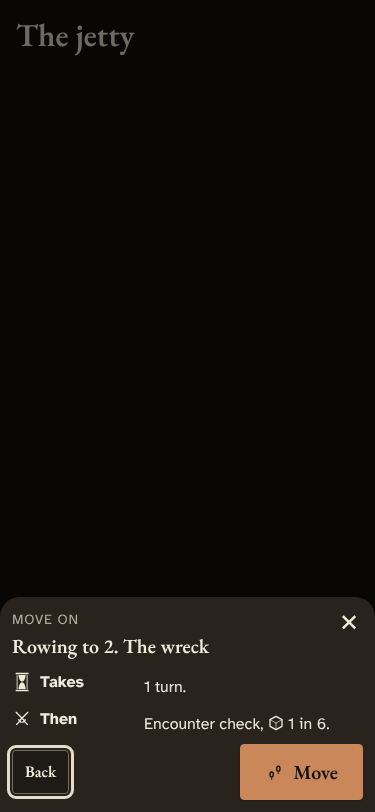
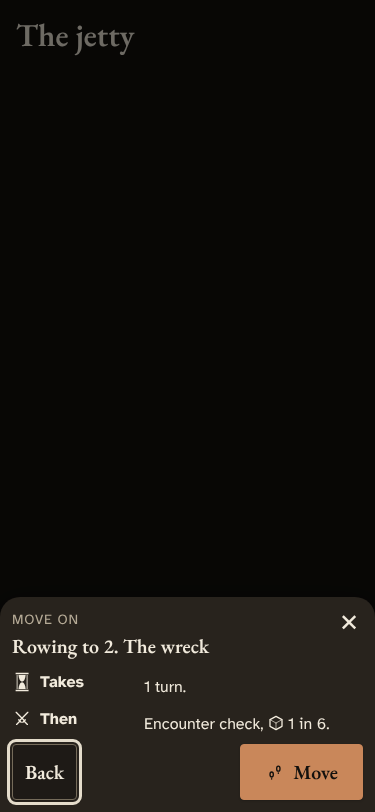
sf-9 + sf-15 review fixes: the Area heading's spacing token, Back as tall as Move, no heading for an unnamed parent, a failed players' read said in a toast, sf-9's built pictures (#122)
Claude-Session: https://claude.ai/code/session_01378fdp6saX76RR3GrkmdJT

Changed region(s): [[0.0, 0.8929, 0.2347, 1.0]]

diff --git a/src/modules/expedition/moveOnWays.test.ts b/src/modules/expedition/moveOnWays.test.ts
@@ -1,7 +1,7 @@
 // Move on's wiring, its data and rules (piece 5b-0; dec-4 pieces b and d; pt-f2, pt-f3): the ways from here, what
 // players know of each far end, each way's time in turns, the split party's refusal, and the GM's read through the
 // stand-in database. Invented places, links and people only.
-import { describe, expect, it } from 'vitest';
+import { describe, expect, it, vi } from 'vitest';
 import type { Db } from '../../core/supabase.ts';
 import { createFakeDb } from '../../testing/fakeDb.ts';
 import type { Barrier, Route } from '../library/routes.ts';
@@ -333,12 +333,35 @@ describe('the GM’s read', () => {
     expect(PLAYERS_READ_WORDS.eye).toBe('Not shown yet. Players read:');
   });
 
+  // Purpose (review nit 4): a far end whose parent the pack doesn't have gets no Area heading, never the parent's raw id.
+  it('gives no heading for a parent the pack does not have', async () => {
+    const t = await mere();
+    const cave = t.world.tables.library_entries.find((x) => x.kind === 'location' && x.pack_entry_id === 'cave')!;
+    cave.data = { ...(cave.data as Record<string, unknown>), parentId: 'gone-area' };
+    const rows = destinationsOf((await loadMoveOn(t.world.db as unknown as Db, t.campaign, t.expedition)) as MoveOnRead);
+    expect(rows.find((r) => r.name === 'The Sea Cave')?.area).toBeNull();
+    expect(JSON.stringify(rows)).not.toContain('gone-area');
+  });
+
+  // Purpose (cs-22): when the players' own read fails, the GM's read still comes back, says that read failed, and its
+  // lines go by the far end's number.
+  it('says when the players’ read failed, and goes by the number', async () => {
+    const t = await mere();
+    const db = t.world.db as unknown as Db;
+    const real = db.rpc.bind(db);
+    vi.spyOn(db, 'rpc').mockImplementation(((name: string, args: never) => (name === 'campaign_ways_on' ? Promise.resolve({ data: null, error: { message: 'offline' } }) : real(name as never, args))) as never);
+    const read = (await loadMoveOn(db, t.campaign, t.expedition)) as MoveOnRead;
+    expect(read.playersUnread).toBe(true);
+    expect(destinationsOf(read).map((r) => r.players)).toEqual([null, '3. Unexplored', null]);
+  });
+
   // Purpose: while the players have no ways (nothing of here shown yet), the GM's line says the far end by its number,
   // as they will read it in a known Area, and never fails the read.
   it('says a far end by its number while the players have no ways yet', async () => {
     const t = await mere({ jettyShown: false });
-    const rows = destinationsOf((await loadMoveOn(t.world.db as unknown as Db, t.campaign, t.expedition)) as MoveOnRead);
-    expect(rows.map((r) => r.players)).toEqual(['2. Unexplored', '3. Unexplored', null]);
+    const read = (await loadMoveOn(t.world.db as unknown as Db, t.campaign, t.expedition)) as MoveOnRead;
+    expect(read.playersUnread).toBe(false);
+    expect(destinationsOf(read).map((r) => r.players)).toEqual(['2. Unexplored', '3. Unexplored', null]);
   });
 
   // Purpose: a player's device gets no ways from this read: routes are the GM's (pt-f3), so the far ends and the

diff --git a/src/modules/expedition/moveOnWays.ts b/src/modules/expedition/moveOnWays.ts
@@ -151,6 +151,8 @@ export interface MoveOnRead {
    * number alone (`playersLineOf`).
    */
   players: Map<string, PlayersRead>;
+  /** The players' own read failed (cs-22): their lines fall back to the far end's number, and Move on says so. */
+  playersUnread: boolean;
 }
 
 const text = (value: unknown) => (typeof value === 'string' ? value.trim() : '');
@@ -229,6 +231,7 @@ export async function loadMoveOn(db: Db, campaignId: string, expeditionId: strin
 
   const farEnds = new Map<string, FarEnd>();
   const players = new Map<string, PlayersRead>();
+  let playersUnread = false;
   if (farIds.length > 0) {
     const [entries, places] = await Promise.all([
       db.from('library_entries').select('pack_entry_id, name, data').eq('pack_id', packId).eq('kind', 'location').in('pack_entry_id', farIds),
@@ -256,13 +259,16 @@ export async function loadMoveOn(db: Db, campaignId: string, expeditionId: strin
       loadWaysOn(db, campaignId),
     ]);
     if (parents.error) return null;
+    playersUnread = waysOn === null;
     const parentName = new Map((parents.data ?? []).map((p) => [String(p.pack_entry_id), text(p.name)]));
     for (const id of farIds) {
       const entry = (entries.data ?? []).find((e) => String(e.pack_entry_id) === id);
       const data = (entry?.data ?? {}) as Record<string, unknown>;
       const placeId = placeOf.get(id) ?? null;
       const parent = parentOf.get(id) ?? null;
-      const area = parent ? { entryId: parent, name: parentName.get(parent) || parent } : null;
+      // A parent the pack doesn't name (not found, or no name) gives no heading: never its raw id.
+      const parentTitle = parent ? parentName.get(parent) : undefined;
+      const area = parent && parentTitle ? { entryId: parent, name: parentTitle } : null;
       farEnds.set(id, { entryId: id, name: text(entry?.name) || id, number: text(data.key) || null, placeId, shown: placeId !== null && farShown(placeId), area });
     }
     // What the party's group reads of each far end (sf-9), from the players' own read, which the GM may call too: the
@@ -280,5 +286,5 @@ export async function loadMoveOn(db: Db, campaignId: string, expeditionId: strin
   const [switches, ...chains] = await Promise.all([loadRuleSwitches(db, campaignId), ...throughIds.map((id) => loadPlaceChain(db, packId, id))]);
   if (!switches || chains.some((c) => c === null)) return null;
   const throughs = new Map(throughIds.map((id, i) => [id, chains[i] as ChainEntry[]]));
-  return { here: { placeId: String(herePlace.data.id), packId, entryId: hereEntry, name: text(herePlace.data.name) }, ways, farEnds, groups: Math.max(1, groups.size), throughs, switches, wayOut, hereArea, players };
+  return { here: { placeId: String(herePlace.data.id), packId, entryId: hereEntry, name: text(herePlace.data.name) }, ways, farEnds, groups: Math.max(1, groups.size), throughs, switches, wayOut, hereArea, players, playersUnread };
 }

diff --git a/tests/layout/moveOn.spec.ts b/tests/layout/moveOn.spec.ts
@@ -74,6 +74,7 @@ for (const size of [
         await expect(dialog.getByRole('group', { name: '0. The landing' }).getByText('Unexplored, under “Elsewhere”')).toBeVisible();
         const [line, row] = await Promise.all([box(shed.locator('.destination-row__sub--unshown')), box(shed)]);
         expect(line.x + line.width).toBeLessThanOrEqual(row.x + row.width);
+        await page.screenshot({ path: `test-results/layout-screens/move-on-areas-${size.name}-${scheme}.png` });
         expect(await layoutProblems(page)).toEqual([]);
         expect(await accessibilityProblems(page)).toEqual([]);
       });
@@ -100,7 +101,7 @@ for (const size of [
 
       // Purpose (sf-15; page 44, PU1 A and D; sf-28): a plain way's step is the standard pop-up, as tall as its words:
       // centred on a tablet, a sheet from the foot on a phone, the screen's width; one foot row, Back at its left edge
-      // and Move (the accent) at its right, level, each a 44 px target; the checks pass.
+      // and Move (the accent) at its right, level, one height (review nit 1), each a 44 px target; the checks pass.
       test('a way’s step: centred, or a sheet from the foot; Back left and Move right', async ({ page }) => {
         await page.goto('/layout.html?moveOn=way');
         const step = page.getByRole('dialog', { name: 'Move on: Rowing to 2. The wreck' });
@@ -121,6 +122,7 @@ for (const size of [
         expect(Math.abs(move.x + move.width - (foot.x + foot.width))).toBeLessThanOrEqual(1);
         expect(Math.abs(back.y + back.height / 2 - (move.y + move.height / 2))).toBeLessThanOrEqual(1);
         expect(Math.min(back.height, move.height)).toBeGreaterThanOrEqual(44);
+        expect(Math.abs(back.height - move.height)).toBeLessThanOrEqual(1);
         await page.screenshot({ path: `test-results/layout-screens/move-on-step-${size.name}-${scheme}.png` });
         expect(await layoutProblems(page)).toEqual([]);
         expect(await accessibilityProblems(page)).toEqual([]);
@@ -139,6 +141,7 @@ for (const size of [
         await expect(step.locator('.move-summary dd').first()).toContainText('999 turns');
         const [back, move] = await Promise.all([box(step.getByRole('button', { name: 'Back' })), box(step.getByRole('button', { name: 'Move' }))]);
         expect(Math.abs(back.y + back.height / 2 - (move.y + move.height / 2))).toBeLessThanOrEqual(1);
+        expect(Math.abs(back.height - move.height)).toBeLessThanOrEqual(1);
         await page.screenshot({ path: `test-results/layout-screens/move-on-step-long-${size.name}-${scheme}.png` });
         expect(await layoutProblems(page)).toEqual([]);
         expect(await accessibilityProblems(page)).toEqual([]);

diff --git a/src/app/moveOnWiring.test.tsx b/src/app/moveOnWiring.test.tsx
@@ -16,6 +16,7 @@
 //     mark there is no such row (B10).
 //   - A check that is a roll on its table: the step's Then line names the table, never the check's id (B9).
 //   - Without the strip listening, Move on says where it works and moves nothing.
+//   - When the players' own read fails, the sheet stays open and a toast says their lines go by map number (cs-22).
 import { cleanup, fireEvent, render, screen, waitFor, within } from '@testing-library/react';
 import userEvent from '@testing-library/user-event';
 import { useState } from 'react';
@@ -26,7 +27,7 @@ import { SPLIT_PARTY_WORDS } from '../modules/expedition/moveOnWays.ts';
 import { createFakeDb, type FakeWorld } from '../testing/fakeDb.ts';
 import { ToastHost } from '../ui/ToastHost.tsx';
 import { forgetCampaignSetting } from './campaignSetting.ts';
-import { MOVE_ON_NO_STRIP, MoveOnWiring } from './MoveOn.tsx';
+import { MOVE_ON_NO_STRIP, MOVE_ON_PLAYERS_UNREAD, MoveOnWiring } from './MoveOn.tsx';
 import { SceneMoveProvider } from './sceneMove.tsx';
 import { SceneTime } from './SceneTime.tsx';
 
@@ -297,5 +298,14 @@ describe('Move on, wired to the time strip', () => {
     await user.click(within(await sheet()).getByRole('button', { name: 'Move' }));
     expect(await screen.findByText(MOVE_ON_NO_STRIP)).toBeTruthy();
     expect(moves(t)).toHaveLength(0);
+  }, 30000);
+
+  it('says when the players’ read failed, and keeps the sheet open', async () => {
+    const t = await table();
+    const real = world.db.rpc.bind(world.db);
+    vi.spyOn(world.db, 'rpc').mockImplementation(((name: string, args: never) => (name === 'campaign_ways_on' ? Promise.resolve({ data: null, error: { message: 'offline' } }) : real(name as never, args))) as never);
+    render(<Page t={t} />);
+    expect(await screen.findByText(MOVE_ON_PLAYERS_UNREAD)).toBeTruthy();
+    expect(within(await sheet()).getByRole('button', { name: 'Rowing, 1 turn, to 2. The Islet' })).toBeTruthy();
   }, 30000);
 });

diff --git a/src/app/MoveOn.tsx b/src/app/MoveOn.tsx
@@ -15,6 +15,11 @@ import { useSceneMoveCheck, useSceneMover } from './sceneMove.tsx';
 
 /** Why Move on can't read its ways (a toast; the sheet then closes). */
 export const MOVE_ON_UNREAD = "Couldn't read the ways on from here. Check your connection and try again.";
+/**
+ * The players' own read failed (cs-22): the sheet stays open, and each "Players read" line goes by the far end's map
+ * number, as they would read it in a known Area (`playersLineOf`).
+ */
+export const MOVE_ON_PLAYERS_UNREAD = "Couldn't check what the players read. Those lines go by map number.";
 /** No time strip is listening (Move on outside Scene). */
 export const MOVE_ON_NO_STRIP = 'Move on works on Scene, beside the time strip.';
 
@@ -63,6 +68,10 @@ export function MoveOnWiring({
     show({ text: MOVE_ON_UNREAD, error: true });
     onClose();
   }, [read, show, onClose]);
+  const playersUnread = read !== null && read !== 'unread' && read.playersUnread;
+  useEffect(() => {
+    if (playersUnread) show({ text: MOVE_ON_PLAYERS_UNREAD, error: true });
+  }, [playersUnread, show]);
   if (read === null || read === 'unread') return null;
 
   /**

diff --git a/src/ui/MoveOnParts.tsx b/src/ui/MoveOnParts.tsx
@@ -93,7 +93,7 @@ export function DestinationRow({
   /** The spot's number on the map's key ("2"), as the key writes it; none for a place without one. */
   number?: string | null;
   name: string;
-  /** Under the name: the GM's lines (`GmDestinationLines`) or a player's "Not yet explored." */
+  /** Under the name: the GM's lines (`GmDestinationLines`) or a player's ways (`WayLine`). */
   sub?: ReactNode;
   ways: WayChoice[];
   onWay: (key: string) => void;
@@ -293,7 +293,7 @@ function WayBody({ move, askedBy, onMove, onAnswer, onBack, foot }: { move: WayM
       {!plain && <Answer decide={decide} onAnswer={onAnswer} />}
       {onBack ? (
         <div className="dialog__actions move-sheet__split">
-          <button type="button" className="button-secondary button-secondary--small" onClick={onBack}>
+          <button type="button" className="button-secondary" onClick={onBack}>
             Back
           </button>
           {plain && (

diff --git a/src/ui/MoveOnParts.css b/src/ui/MoveOnParts.css
@@ -82,7 +82,7 @@
   font-weight: var(--weight-heading);
   font-size: var(--text-14);
   font-variant: small-caps;
-  letter-spacing: 0.04em;
+  letter-spacing: var(--tracking-label);
   line-height: var(--line-heading);
   overflow-wrap: anywhere;
 }
@@ -286,8 +286,10 @@
 
 /* The GM's way step's one foot row (page 44, PU1 A; sf-15): the standard pop-up's foot, Back at the left as the safe way
    out, Move (the accent) at the right; Back alone where the GM answers above. */
+/* Back and Move one height, as PU1 A and D draw them (review nit 1): the plain button stretched to the accent's. */
 .dialog__actions.move-sheet__split {
   justify-content: space-between;
+  align-items: stretch;
 }
 
 /* A player's travel pop-up (PU1 B): the built sentence under "Takes". */

diff --git a/src/modules/expedition/moveOnRows.ts b/src/modules/expedition/moveOnRows.ts
@@ -54,8 +54,8 @@ export function areaSections<T>(rows: readonly T[], keyOf: (row: T) => string | 
     groups.set(key, [...(groups.get(key) ?? []), row]);
   }
   const rank = (key: string | null) => (key === null ? 0 : key === order.first ? 1 : key === order.last ? 3 : 2);
-  const keys = [...groups.keys()].sort((a, b) => rank(a) - rank(b));
-  return keys.map((key) => ({ key, heading: keys.length > 1 ? key : null, rows: groups.get(key)! }));
+  const sections = [...groups.entries()].sort(([a], [b]) => rank(a) - rank(b));
+  return sections.map(([key, rows]) => ({ key, heading: sections.length > 1 ? key : null, rows }));
 }
 
 /** The GM's line under a far end not shown (WT1 A, finding 21): what its players read, after the closed eye. */
